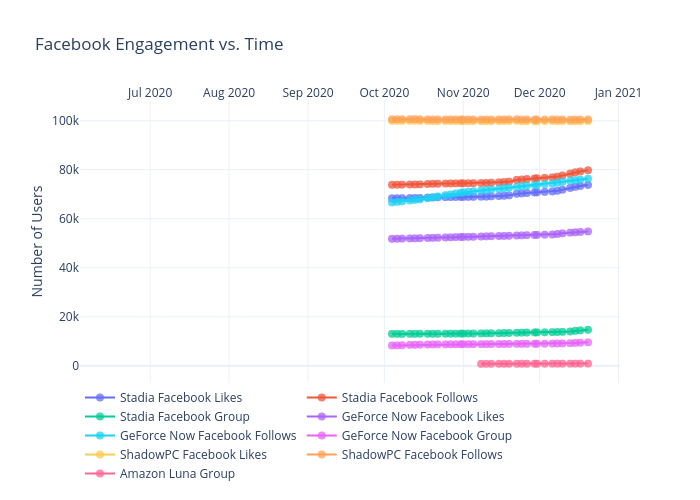
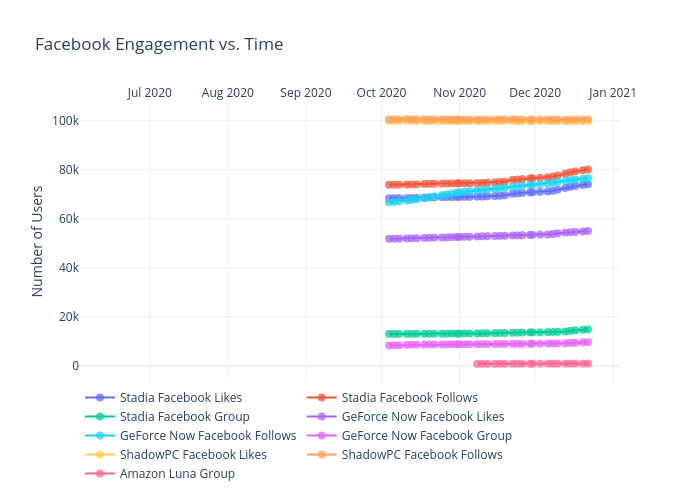
Add files via upload

diff --git a/facebook/figure.js b/facebook/figure.js
@@ -94,7 +94,8 @@ var figure = {
                 "72563",
                 "73021",
                 "73362",
-                "73788"
+                "73788",
+                "74088"
             ],
             "marker": {
                 "size": 8,
@@ -198,7 +199,8 @@ var figure = {
                 "78452",
                 "78944",
                 "79305",
-                "79783"
+                "79783",
+                "80103"
             ],
             "marker": {
                 "size": 8,
@@ -302,7 +304,8 @@ var figure = {
                 "13954",
                 "14220",
                 "14419",
-                "14666"
+                "14666",
+                "14831"
             ],
             "marker": {
                 "size": 8,
@@ -406,7 +409,8 @@ var figure = {
                 "54317",
                 "54450",
                 "54597",
-                "54795"
+                "54795",
+                "54956"
             ],
             "marker": {
                 "size": 8,
@@ -510,7 +514,8 @@ var figure = {
                 "75544",
                 "75766",
                 "75967",
-                "76322"
+                "76322",
+                "76567"
             ],
             "marker": {
                 "size": 8,
@@ -614,7 +619,8 @@ var figure = {
                 "9157",
                 "9287",
                 "9371",
-                "9510"
+                "9510",
+                "9628"
             ],
             "marker": {
                 "size": 8,
@@ -718,7 +724,8 @@ var figure = {
                 "99759",
                 "99784",
                 "99800",
-                "99838"
+                "99838",
+                "99862"
             ],
             "marker": {
                 "size": 8,
@@ -822,7 +829,8 @@ var figure = {
                 "100433",
                 "100459",
                 "100475",
-                "100513"
+                "100513",
+                "100537"
             ],
             "marker": {
                 "size": 8,
@@ -926,7 +934,8 @@ var figure = {
                 "825",
                 "825",
                 "826",
-                "842"
+                "842",
+                "851"
             ],
             "marker": {
                 "size": 8,
@@ -945,8 +954,8 @@ var figure = {
             "side": "top",
             "type": "date",
             "range": [
-                "2020-06-04 06:44:45.1363",
-                "2020-12-31 17:15:14.8637"
+                "2020-06-04 03:44:16.1004",
+                "2021-01-02 20:15:43.8996"
             ],
             "title": {
                 "text": ""
@@ -956,8 +965,8 @@ var figure = {
         "yaxis": {
             "type": "linear",
             "range": [
-                -8217.718673218673,
-                109608.71867321867
+                -6104.3003735699285,
+                107495.30037356993
             ],
             "title": {
                 "text": "Number of Users"
